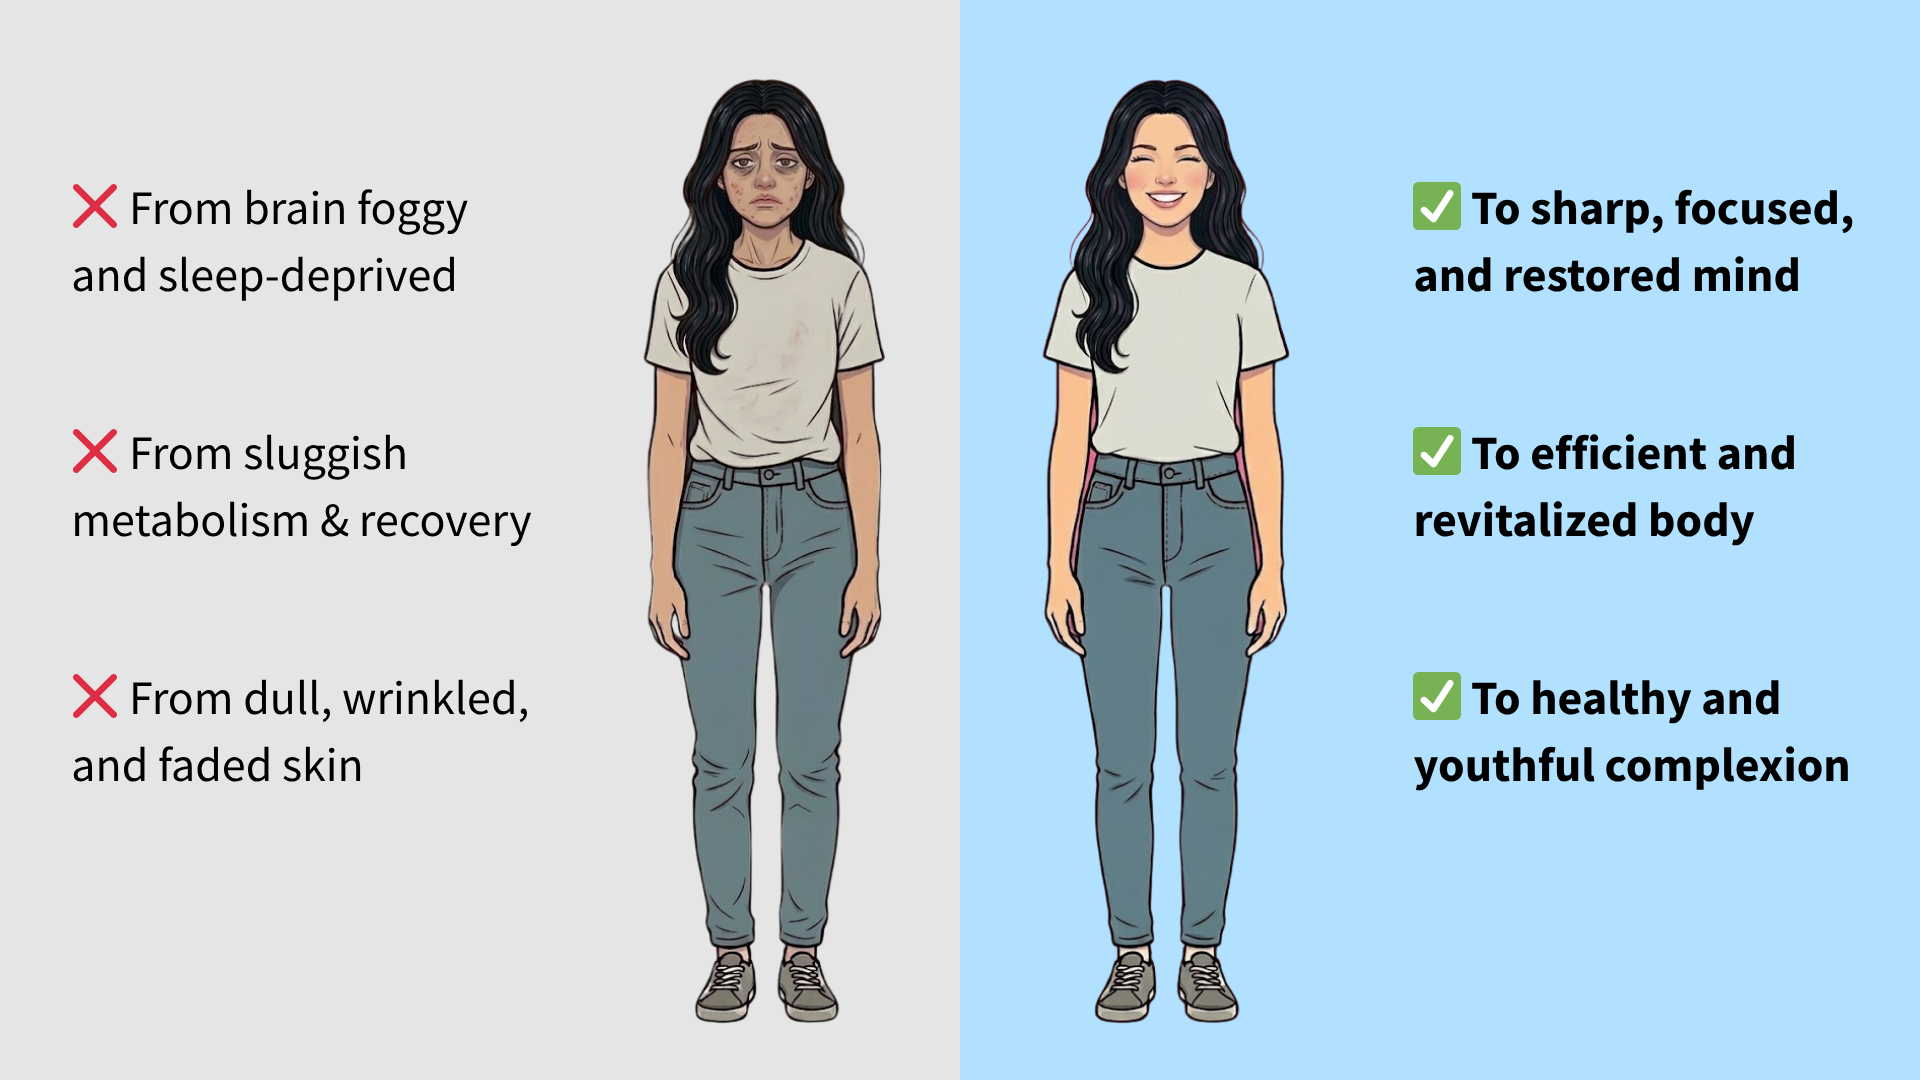
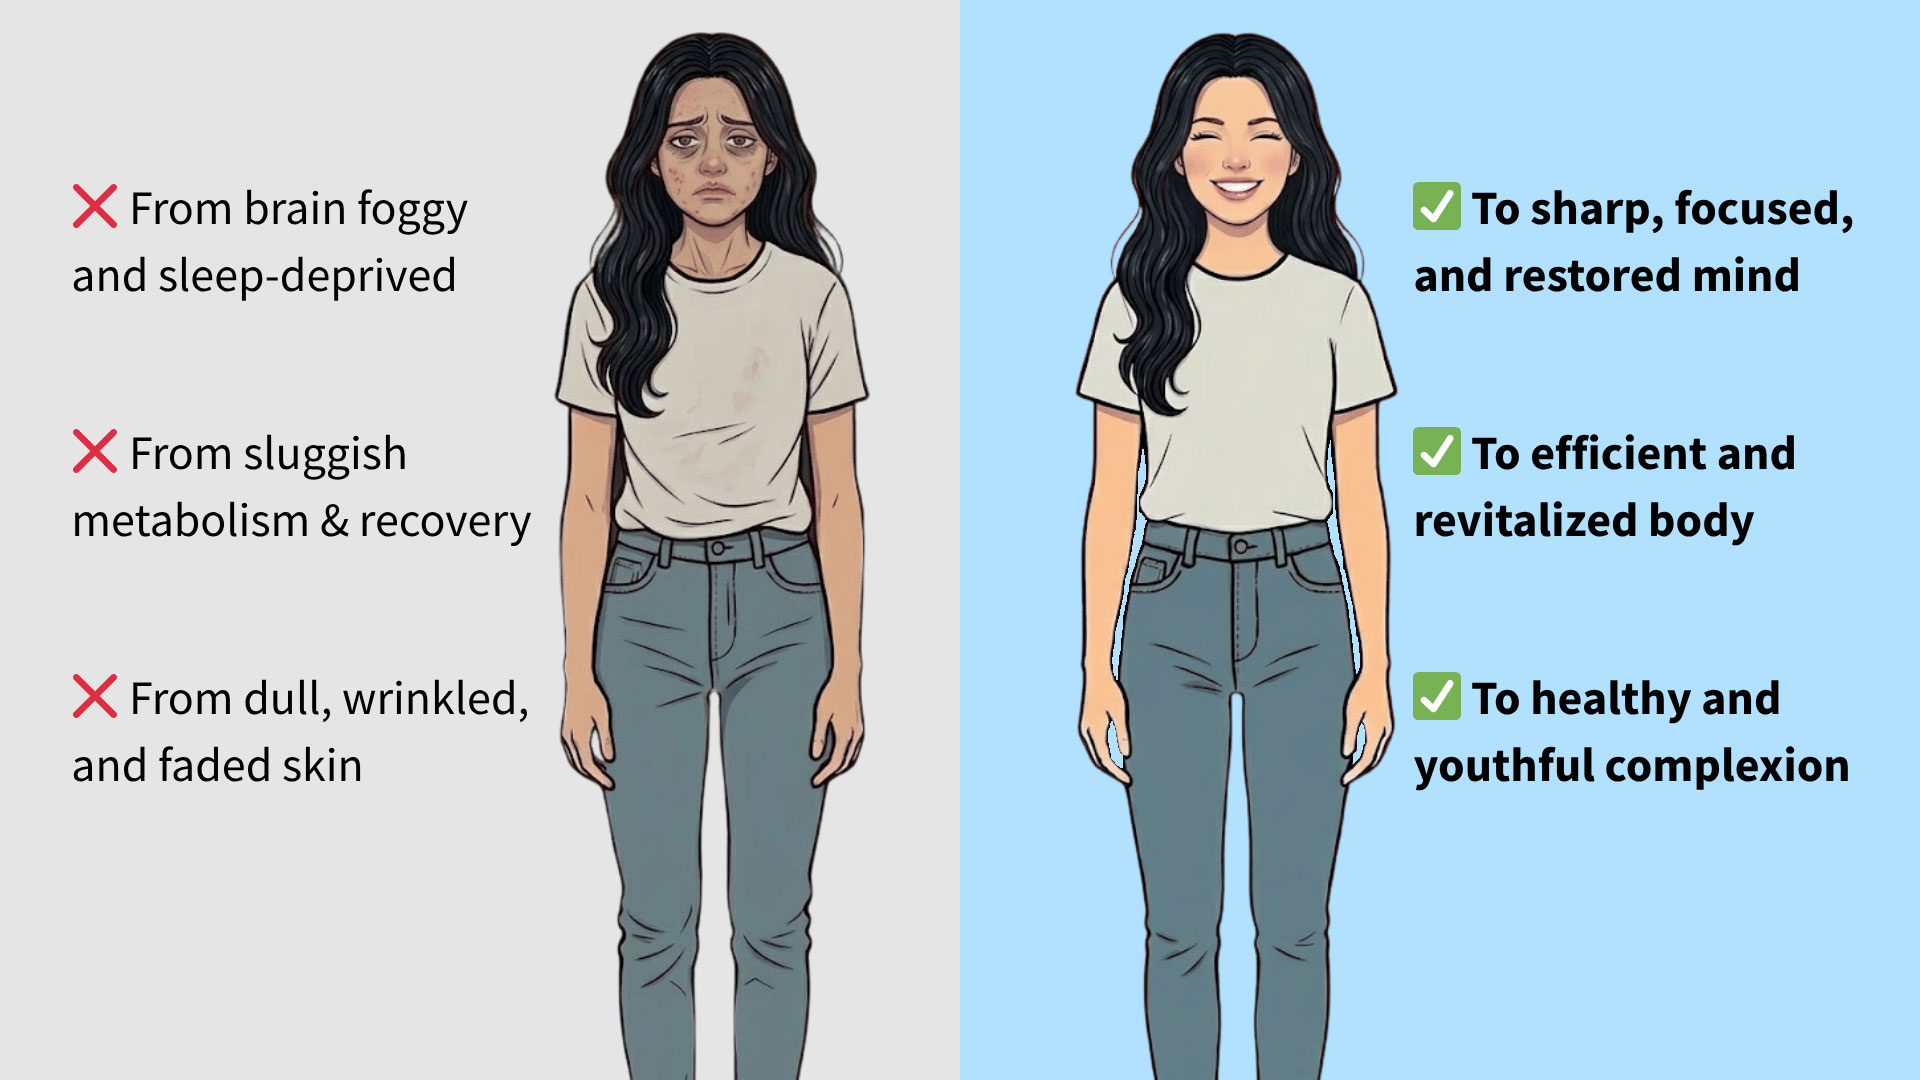
Updated public assets and configuration for Harmony landing page refinements.

Changed region(s): [[0.5312, 0.0306, 0.75, 1.0], [0.2812, 0.0306, 0.4688, 1.0]]

diff --git a/client/vite.config.js b/client/vite.config.js
@@ -4,7 +4,7 @@ import tailwindcss from '@tailwindcss/vite'
 
 const apiProxy = {
   '/api': {
-    target: 'http://127.0.0.1:5010',
+    target: 'http://127.0.0.1:5011',
     changeOrigin: true,
   },
 }